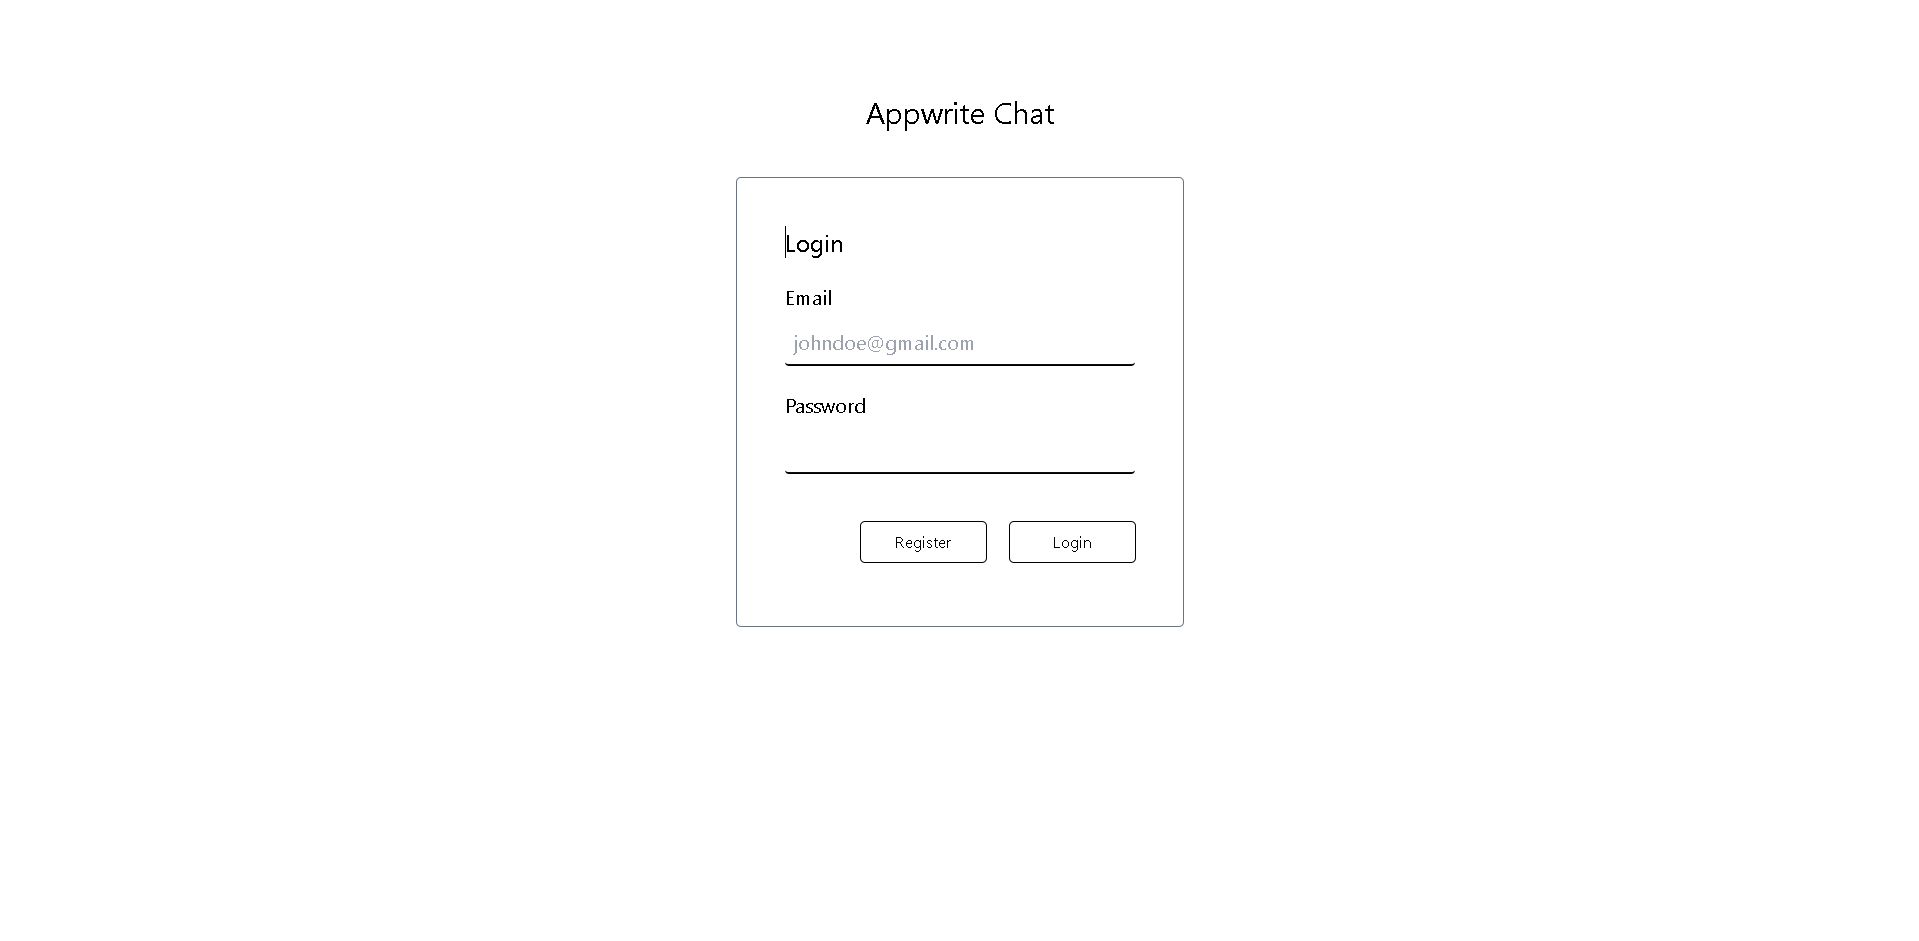
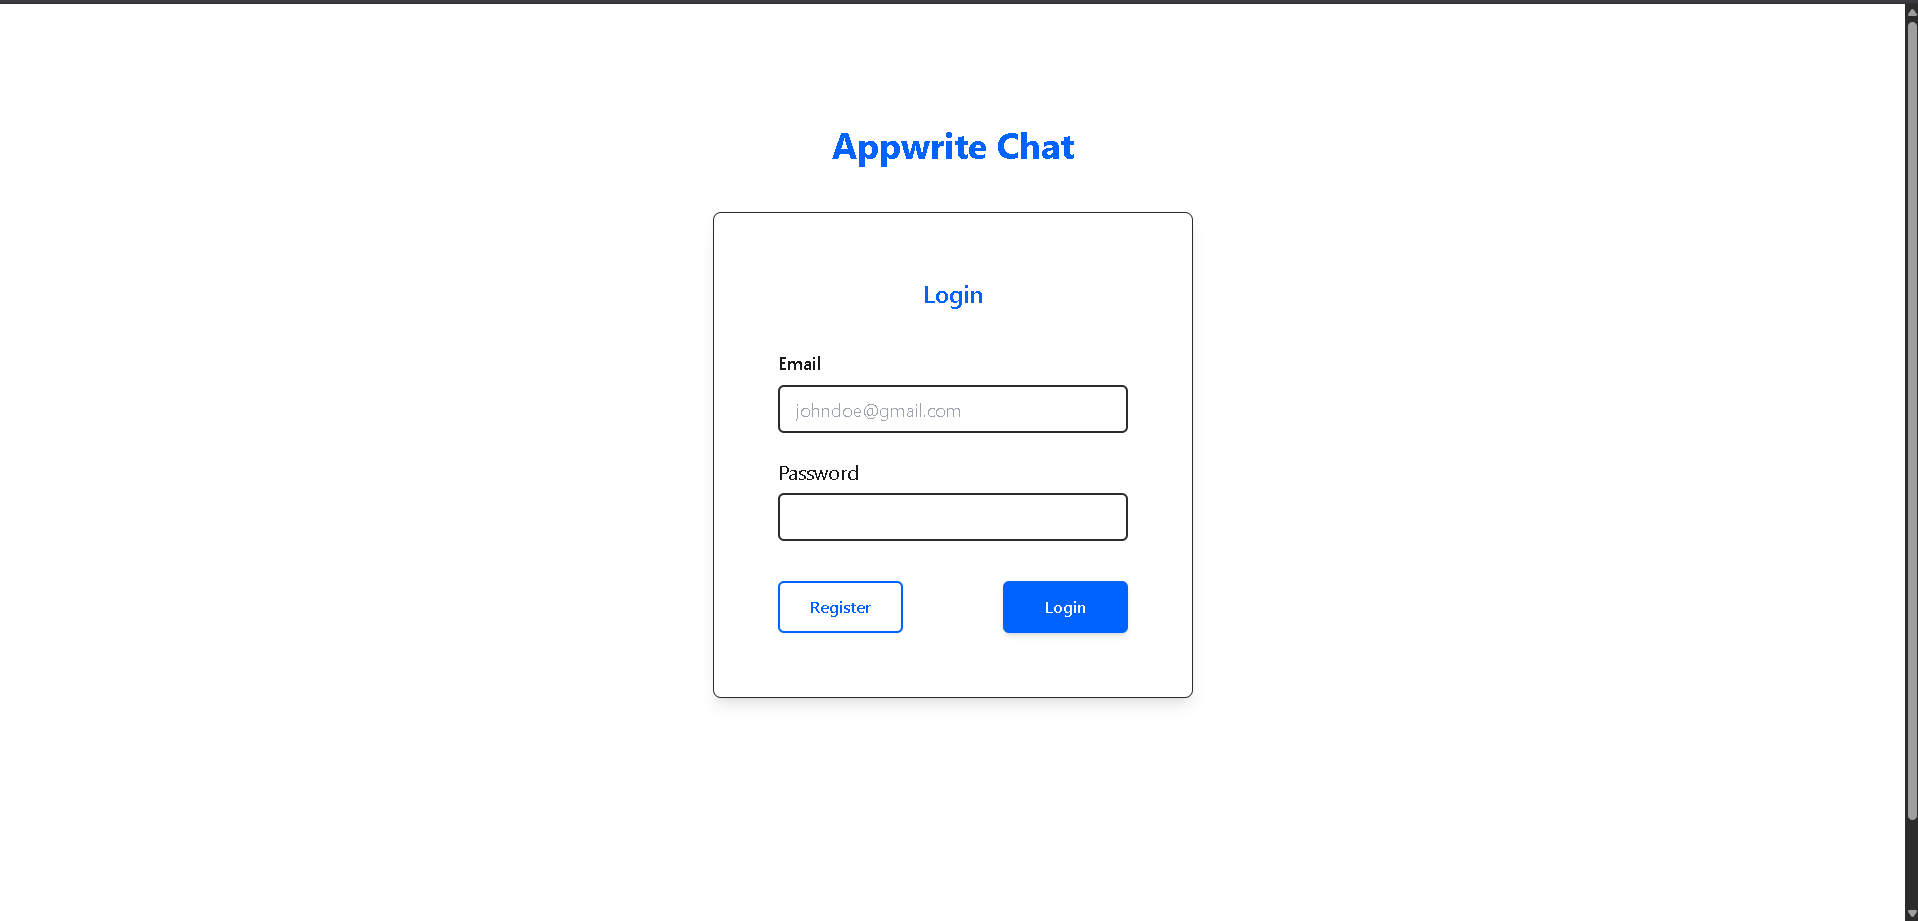
feat: implement dark mode and chat UI components with Tailwind styling

diff --git a/src/app/register/register.component.html b/src/app/register/register.component.html
@@ -1,65 +1,65 @@
-<div class="sm:container flex flex-row justify-center mx-1 sm:mx-auto my-4 sm:my-12">
+<div class="sm:container flex flex-row justify-center mx-1 sm:mx-auto my-4 sm:my-12 bg-bg-light dark:bg-bg-dark min-h-screen">
     <div class="my-12">
-        <h1 class="text-3xl text-center">Appwrite Chat</h1>
+        <h1 class="text-4xl font-bold text-center text-blue-futuristic my-6">Appwrite Chat</h1>
         <div
-            class="mt-2 mb-2 sm:mt-12 sm:mb-4 outline-gray-500 p-4 sm:p-12 pt-2 px-4 sm:px-12 rounded outline outline-1">
-            <span class="text-2xl text-center mb-2">Register</span>
+            class="mt-2 mb-2 sm:mt-12 sm:mb-4 p-8 sm:p-16 pt-6 px-8 sm:px-16 rounded-lg shadow-lg bg-white dark:bg-gray-dark border border-gray-medium text-text-dark dark:text-text-light">
+            <h2 class="text-2xl font-semibold text-center mb-8 block text-blue-futuristic dark:text-text-light">Register</h2>
             <form [formGroup]="form" class="" (ngSubmit)="register()">
                 <div class="flex flex-col my-4">
-                    <label class="text-xl my-2" for="email">Email</label>
+                    <label class="text-lg font-medium my-2 text-gray-dark dark:text-text-light" for="email">Email</label>
                     <input
-                        class="w-full sm:w-[350px] h-12 rounded text-xl px-2 border-b-2 border-b-black focus:border-b-transparent bg-white"
+                        class="w-full sm:w-[350px] h-12 rounded-md text-lg px-4 border-2 border-gray-medium focus:border-blue-futuristic focus:ring-1 focus:ring-blue-futuristic bg-white dark:bg-gray-medium text-text-dark dark:text-text-light"
                         type="text" id="email" formControlName="email" placeholder="johndoe@gmail.com" [class.valid]="form.get('email')?.valid &&
                         (form.get('email')?.dirty || form.get('email')?.touched)" [class.invalid]="form.get('email')?.invalid &&
                         (form.get('email')?.dirty || form.get('email')?.touched)">
                     @if(form.get('email')?.invalid && (form.get('email')?.dirty || form.get('email')?.touched))
                     {
-                    <span class="text-lg text-red-400">Invalid Email</span>
+                    <span class="text-md font-medium text-red-500 mt-1">Invalid Email</span>
                     }
                 </div>
 
                 <div class="flex flex-col my-4">
-                    <label class="text-xl my-2" for="name">Username</label>
+                    <label class="text-lg font-medium my-2 text-gray-dark dark:text-text-light" for="name">Username</label>
                     <input
-                        class="w-full sm:w-[350px] h-12 rounded text-xl px-2 border-b-2 border-b-black focus:border-b-transparent bg-white"
+                        class="w-full sm:w-[350px] h-12 rounded-md text-lg px-4 border-2 border-gray-medium focus:border-blue-futuristic focus:ring-1 focus:ring-blue-futuristic bg-white dark:bg-gray-medium text-text-dark dark:text-text-light"
                         type="text" id="name" formControlName="name" placeholder="johndoe" [class.valid]="form.get('name')?.valid &&
                         (form.get('name')?.dirty || form.get('name')?.touched)" [class.invalid]="form.get('name')?.invalid &&
                         (form.get('name')?.dirty || form.get('name')?.touched)">
                     @if(form.get('name')?.invalid && (form.get('name')?.dirty || form.get('name')?.touched))
                     {
-                    <span class="text-lg text-red-400">Invalid Username</span>
+                    <span class="text-md font-medium text-red-500 mt-1">Invalid Username</span>
                     }
                 </div>
                 <div class="flex flex-col my-4">
-                    <label class="text-xl my-2" for="password">Password</label>
+                    <label class="text-lg font-medium my-2 text-gray-dark dark:text-text-light" for="password">Password</label>
                     <input
-                        class="w-full sm:w-[350px] h-12 rounded text-xl px-2 border-b-2 border-b-black focus:border-b-transparent bg-white"
+                        class="w-full sm:w-[350px] h-12 rounded-md text-lg px-4 border-2 border-gray-medium focus:border-blue-futuristic focus:ring-1 focus:ring-blue-futuristic bg-white dark:bg-gray-medium text-text-dark dark:text-text-light"
                         type="password" id="password" formControlName="password" [class.valid]="form.get('password')?.valid &&
                         (form.get('password')?.dirty || form.get('password')?.touched)" [class.invalid]="form.get('password')?.invalid &&
                         (form.get('password')?.dirty || form.get('password')?.touched)">
                     @if(form.get('password')?.invalid && (form.get('password')?.dirty || form.get('password')?.touched))
                     {
-                    <span class="text-lg text-red-400">Invalid Password</span>
+                    <span class="text-md font-medium text-red-500 mt-1">Invalid Password</span>
                     }
                 </div>
 
                 <div class="flex flex-col my-4">
-                    <label class="text-xl my-2" for="confirmPassword">Confirm Password</label>
+                    <label class="text-lg font-medium my-2 text-gray-dark dark:text-text-light" for="confirmPassword">Confirm Password</label>
                     <input
-                        class="w-full sm:w-[350px] h-12 rounded text-xl px-2 border-b-2 border-b-black focus:border-b-transparent bg-white"
+                        class="w-full sm:w-[350px] h-12 rounded-md text-lg px-4 border-2 border-gray-medium focus:border-blue-futuristic focus:ring-1 focus:ring-blue-futuristic bg-white dark:bg-gray-medium text-text-dark dark:text-text-light"
                         type="password" id="confirmPassword" formControlName="confirmPassword" [class.valid]="form.get('confirmPassword')?.valid &&
                         (form.get('confirmPassword')?.dirty || form.get('confirmPassword')?.touched)" [class.invalid]="form.get('confirmPassword')?.invalid &&
                         (form.get('confirmPassword')?.dirty || form.get('confirmPassword')?.touched)">
                     @if( form.get('confirmPassword')?.errors?.['passwordMismatch'] &&
                     form.get('confirmPassword')?.touched)
                     {
-                    <span class="text-lg text-red-400">Invalid Confirm Password</span>
+                    <span class="text-md font-medium text-red-500 mt-1">Invalid Confirm Password</span>
                     }
                 </div>
 
-                <div class="flex flex-row justify-end">
+                <div class="flex flex-row justify-between mt-10">
                     <button type="submit" aria-label="Register"
-                        class="mt-8 mb-4 w-[125px] px-4 py-2 outline outline-1 hover:outline-2 rounded">Register</button>
+                        class="ml-auto w-[125px] bg-blue-futuristic hover:bg-blue-futuristic/80 text-white rounded-md px-4 py-3 font-medium text-center transition-all duration-300 shadow-md">Register</button>
                 </div>
             </form>
         </div>

diff --git a/src/app/login/login.component.html b/src/app/login/login.component.html
@@ -1,40 +1,40 @@
-<div class="sm:container flex flex-row justify-center mx-1 sm:mx-auto my-4 sm:my-12">
+<div class="sm:container flex flex-row justify-center mx-1 sm:mx-auto my-4 sm:my-12 bg-bg-light dark:bg-bg-dark min-h-screen">
     <div class="my-12">
-        <h1 class="text-3xl text-center">Appwrite Chat</h1>
+        <h1 class="text-4xl font-bold text-center text-blue-futuristic my-6">Appwrite Chat</h1>
         <div
-            class="mt-2 mb-2 sm:mt-12 sm:mb-4 outline-gray-500 p-4 sm:p-12 pt-2 px-4 sm:px-12 rounded outline outline-1">
-            <span class="text-2xl text-center mb-2">Login</span>
+            class="mt-2 mb-2 sm:mt-12 sm:mb-4 p-8 sm:p-16 pt-6 px-8 sm:px-16 rounded-lg shadow-lg bg-white dark:bg-gray-dark border border-gray-medium text-text-dark dark:text-text-light">
+            <h2 class="text-2xl font-semibold text-center mb-8 block text-blue-futuristic dark:text-text-light">Login</h2>
             <form [formGroup]="form" (ngSubmit)="login()">
                 <div class="flex flex-col my-4">
-                    <label class="text-xl my-2" for="email">Email</label>
+                    <label class="text-lg font-medium my-2 text-gray-dark dark:text-text-light" for="email">Email</label>
                     <input
-                        class="w-full sm:w-[350px] h-12 rounded text-xl px-2 border-b-2 border-b-black focus:border-b-transparent bg-white"
+                        class="w-full sm:w-[350px] h-12 rounded-md text-lg px-4 border-2 border-gray-medium focus:border-blue-futuristic focus:ring-1 focus:ring-blue-futuristic bg-white dark:bg-gray-medium text-text-dark dark:text-text-light"
                         type="text" id="email" formControlName="email" placeholder="johndoe@gmail.com" [class.valid]="form.get('email')?.valid &&
                         (form.get('email')?.dirty || form.get('email')?.touched)" [class.invalid]="form.get('email')?.invalid &&
                         (form.get('email')?.dirty || form.get('email')?.touched)">
                     @if(form.get('email')?.invalid && (form.get('email')?.dirty || form.get('email')?.touched))
                     {
-                    <span class="text-lg text-red-400">Invalid Email</span>
+                    <span class="text-md font-medium text-red-500 mt-1">Invalid Email</span>
                     }
                 </div>
                 <div class="flex flex-col my-4">
                     <label class="text-xl my-2" for="password">Password</label>
                     <input
-                        class="w-full sm:w-[350px] h-12 rounded text-xl px-2 border-b-2 border-b-black focus:border-b-transparent bg-white"
+                        class="w-full sm:w-[350px] h-12 rounded-md text-lg px-4 border-2 border-gray-medium focus:border-blue-futuristic focus:ring-1 focus:ring-blue-futuristic bg-white dark:bg-gray-medium text-text-dark dark:text-text-light"
                         type="password" id="password" formControlName="password" [class.valid]="form.get('password')?.valid &&
                         (form.get('[password]')?.dirty || form.get('password')?.touched)" [class.invalid]="form.get('password')?.invalid &&
                         (form.get('password')?.dirty || form.get('password')?.touched)">
                     @if(form.get('password')?.invalid && (form.get('password')?.dirty || form.get('password')?.touched))
                     {
-                    <span class="text-lg text-red-400">Invalid Password</span>
+                    <span class="text-md font-medium text-red-500 mt-1">Invalid Password</span>
                     }
                 </div>
 
-                <div class="flex flex-row justify-end">
+                <div class="flex flex-row justify-between mt-10">
                     <a [routerLink]="['/register']" aria-label="Register"
-                        class="mx-6 mt-8 mb-4 w-[125px] px-4 py-2 outline outline-1 rounded hover:outline-2 text-center">Register</a>
+                        class="mr-4 w-[125px] border-2 border-blue-futuristic rounded-md px-4 py-3 text-blue-futuristic font-medium hover:bg-blue-futuristic hover:text-white text-center transition-all duration-300 shadow-sm">Register</a>
                     <button type="submit" aria-label="Login"
-                        class="mx-0 mt-8 mb-4 w-[125px] px-4 py-2 outline outline-1 rounded hover:outline-2 text-center">Login</button>
+                        class="w-[125px] bg-blue-futuristic hover:bg-blue-futuristic/80 text-white rounded-md px-4 py-3 font-medium text-center transition-all duration-300 shadow-md">Login</button>
                 </div>
             </form>
         </div>

diff --git a/src/app/chat/chat.component.html b/src/app/chat/chat.component.html
@@ -1,13 +1,18 @@
-<div class="w-full" *ngIf="user$ | async as vm; else loading">
-    <div class="flex flex-row justify-between outline-1 outline-black shadow">
-        <div class="mx-6 mb-4 mt-2 text-3xl">Let's Chat</div>
-        <div class="flex flex-row">
+<div class="w-full min-h-screen bg-bg-light dark:bg-bg-dark" *ngIf="user$ | async as vm; else loading">
+    <div class="flex flex-row justify-between shadow-lg bg-white dark:bg-gray-dark p-4">
+        <div class="mx-6 mb-0 mt-0 text-3xl font-bold text-blue-futuristic">Let's Chat</div>
+        <div class="flex flex-row items-center">
+            <button (click)="toggleDarkMode()" class="px-4 py-2 rounded-full text-sm font-medium transition-all duration-300 focus:outline-none focus:ring-2 focus:ring-blue-futuristic
+                dark:bg-gray-medium dark:text-text-light dark:hover:bg-gray-dark
+                bg-gray-light text-text-dark hover:bg-gray-medium">
+                {{ (isDarkMode() | async) ? 'Light Mode' : 'Dark Mode' }}
+            </button>
             <div class="py-4 mx-2">
                 <a href='https://ko-fi.com/T6T14PGKO' target='_blank'><img height='36' style='border:0px;height:36px;'
                         src='https://storage.ko-fi.com/cdn/kofi5.png?v=3' border='0'
                         alt='Buy Me a Coffee at ko-fi.com' /></a>
             </div>
-            <button class="mx-6 mt-2 mb-2 w-[125px] px-4 py-2 outline outline-1 rounded hover:outline-2"
+            <button class="mx-6 w-[150px] border-2 border-blue-futuristic rounded-md px-4 py-2 text-blue-futuristic font-medium hover:bg-blue-futuristic hover:text-white transition-all duration-300 shadow-sm"
                 aria-label="Leave Room" (click)="logout()">
                 Leave Room</button>
         </div>
@@ -16,9 +21,9 @@
 
     <div class="flex flex-row justify-center">
         <div class="w-full sm:w-1/3 flex flex-col mt-12 mb-12">
-            <div class="mx-0 my-4 p-4 shadow outline-1 outline-black" id="{{ message.$id }}"
+            <div class="mx-0 my-4 p-4 shadow-md rounded-lg border border-gray-medium bg-white dark:bg-gray-dark text-text-dark dark:text-text-light" id="{{ message.$id }}"
                 *ngFor="let message of messages$ | async">
-                <span class="name">{{ message.user }}:</span>
+                <span class="font-medium text-blue-futuristic dark:text-blue-futuristic">{{ message.user }}:</span>
                 {{ message.message }}
             </div>
         </div>
@@ -48,16 +53,16 @@
         <form [formGroup]="form" (ngSubmit)="sendMessage()"
             class="mx-auto my-2 p-2 flex flex-row justify-center w-full sm:w-1/3">
             <input
-                class="w-full h-12 rounded text-xl px-2 border-b-2 border-b-black focus:border-b-transparent bg-white disabled:border-b-gray"
+                class="w-full h-12 rounded-md text-lg px-4 border-2 border-gray-medium focus:border-blue-futuristic focus:ring-1 focus:ring-blue-futuristic bg-white dark:bg-gray-medium text-text-dark dark:text-text-light disabled:border-gray-medium"
                 type="text" formControlName="message" placeholder="Type a message..." />
             <button type="submit" aria-label="Send Message"
-                class="flex flex-row justify-center p-2 pt-3 mt-0 rounded shadow align-middle bg-[#fd356e] cursor-pointer disabled:bg-gray-400 disabled:cursor-none"
+                class="flex flex-row justify-center p-2 pt-3 mt-0 ml-2 rounded-md shadow-md align-middle bg-blue-futuristic hover:bg-blue-futuristic/80 text-white cursor-pointer disabled:bg-gray-medium transition-all duration-300"
                 [disabled]="form.invalid">
                 <svg class="arrow" width="24" height="24" viewBox="0 0 24 24" fill="none"
                     xmlns="http://www.w3.org/2000/svg">
                     <path
                         d="M13.0737 3.06325C12.8704 2.65671 12.4549 2.3999 12.0004 2.3999C11.5459 2.3999 11.1304 2.65671 10.9271 3.06325L2.52709 19.8632C2.31427 20.2889 2.37308 20.8001 2.67699 21.1663C2.98091 21.5325 3.4725 21.6845 3.93007 21.5537L9.93006 19.8395C10.4452 19.6923 10.8004 19.2214 10.8004 18.6856V13.1999C10.8004 12.5372 11.3376 11.9999 12.0004 11.9999C12.6631 11.9999 13.2004 12.5372 13.2004 13.1999V18.6856C13.2004 19.2214 13.5556 19.6923 14.0707 19.8394L20.0707 21.5537C20.5283 21.6845 21.0199 21.5325 21.3238 21.1663C21.6277 20.8001 21.6865 20.2889 21.4737 19.8632L13.0737 3.06325Z"
-                        fill="#373B4D" />
+                        fill="white" />
                 </svg>
             </button>
         </form>

diff --git a/src/app/chat/chat.component.ts b/src/app/chat/chat.component.ts
@@ -4,18 +4,28 @@ import { FormBuilder, FormGroup, ReactiveFormsModule, Validators } from '@angula
 import { Observable, ReplaySubject, map, merge, share, startWith, switchMap } from 'rxjs';
 import { AuthService } from '../services/auth.service';
 import { ChatService, Message } from '../services/chat.service';
+import { ThemeService } from '../services/theme.service';
 
 @Component({
   selector: 'app-chat',
   standalone: true,
   imports: [CommonModule, ReactiveFormsModule],
   templateUrl: './chat.component.html',
-  styleUrl: './chat.component.scss',
+  styleUrls: ['./chat.component.scss'],
 })
 export class ChatComponent implements OnInit, OnDestroy {
   private readonly authService = inject(AuthService);
   private readonly chatService = inject(ChatService);
   private readonly formBuilder = inject(FormBuilder);
+  private readonly themeService = inject(ThemeService);
+
+  toggleDarkMode() {
+    this.themeService.toggleDarkMode();
+  }
+
+  isDarkMode() {
+    return this.themeService.darkMode$;
+  };
 
   form: FormGroup = this.formBuilder.group({
     message: ['', [Validators.required]],

diff --git a/src/app/services/theme.service.ts b/src/app/services/theme.service.ts
@@ -1,0 +1,37 @@
+import { Injectable } from '@angular/core';
+import { BehaviorSubject } from 'rxjs';
+
+@Injectable({
+  providedIn: 'root'
+})
+export class ThemeService {
+  private _darkMode = new BehaviorSubject<boolean>(false);
+  readonly darkMode$ = this._darkMode.asObservable();
+
+  constructor() {
+    // Initialize dark mode based on user preference or system setting
+    const prefersDark = window.matchMedia('(prefers-color-scheme: dark)');
+    this.setDarkMode(prefersDark.matches);
+
+    prefersDark.addEventListener('change', (mediaQuery) => {
+      this.setDarkMode(mediaQuery.matches);
+    });
+  }
+
+  setDarkMode(isDark: boolean) {
+    this._darkMode.next(isDark);
+    if (isDark) {
+      document.body.classList.add('dark');
+    } else {
+      document.body.classList.remove('dark');
+    }
+  }
+
+  toggleDarkMode() {
+    this.setDarkMode(!this._darkMode.value);
+  }
+
+  isDarkMode() {
+    return this._darkMode.value;
+  }
+}

diff --git a/tailwind.config.js b/tailwind.config.js
@@ -1,8 +1,20 @@
 /** @type {import('tailwindcss').Config} */
 module.exports = {
-  content: ["./src/**/*.{html,js}"],
+  content: ["./src/**/*.{html,ts}"],
+  darkMode: 'class',
   theme: {
-    extend: {},
+    extend: {
+      colors: {
+        'blue-futuristic': '#0062FF',
+        'gray-dark': '#1A1A1A',
+        'gray-medium': '#2C2C2C',
+        'gray-light': '#E0E0E0',
+        'text-light': '#E0E0E0',
+        'text-dark': '#1A1A1A',
+        'bg-light': '#FFFFFF',
+        'bg-dark': '#0A0A0A',
+      },
+    },
   },
   plugins: [],
 }

diff --git a/src/styles.css b/src/styles.css
@@ -1,3 +1,12 @@
 @tailwind base;
 @tailwind components;
 @tailwind utilities;
+
+@layer base {
+  body {
+    @apply bg-bg-light text-text-dark transition-colors duration-500;
+  }
+  body.dark {
+    @apply bg-bg-dark text-text-light;
+  }
+}

diff --git a/src/app/chat/chat.component.scss b/src/app/chat/chat.component.scss
@@ -1,10 +1,6 @@
 .arrow {
-    position: static;
     width: 24px;
     height: 24px;
-    left: 38px;
-    top: 12px;
-
     transform: rotate(90deg);
 }
 
